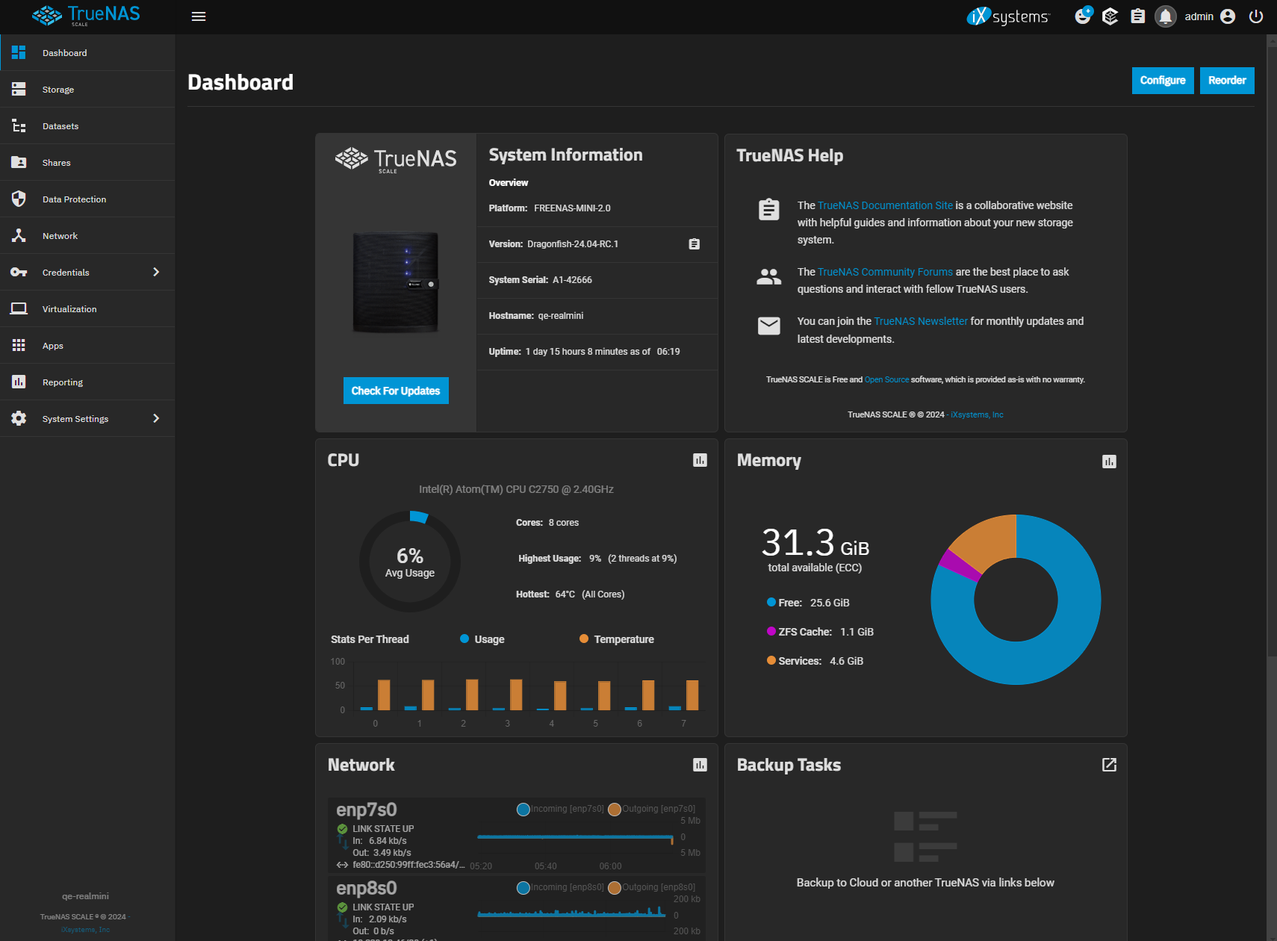
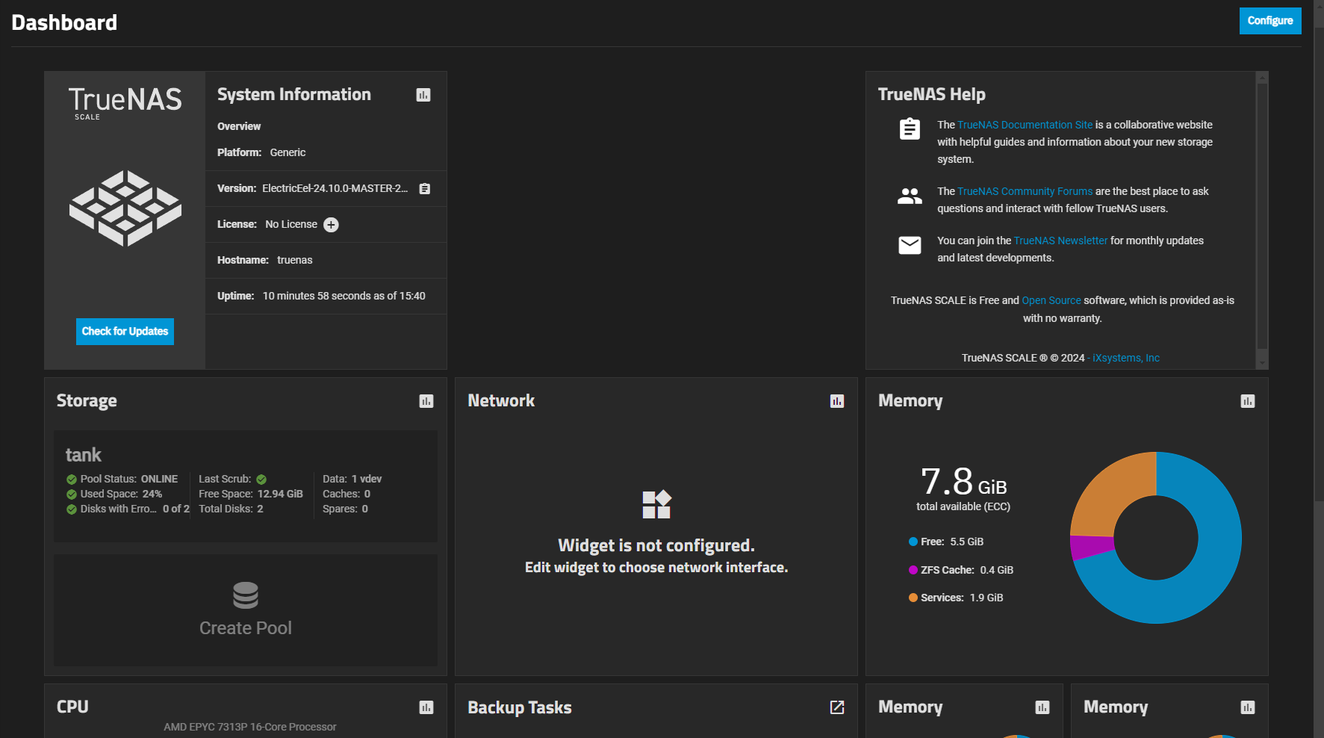
PD-1061 Create new Dashboard UI Ref Content and Screenshots
This commit updates the SCALEDashboard.md article with new UI reference content and images for the redesigned main dashboard.

diff --git a/content/SCALE/SCALEUIReference/SCALEDashboard.md b/content/SCALE/SCALEUIReference/SCALEDashboard.md
@@ -1,6 +1,6 @@
 ---
 title: Dashboard
-description: "Explains the main Dashboard information cards (widgets). Includes basic instructions on synchronizing the system server and SCALE time, and on customizing the Dashboard display."
+description: "Explains the main dashboard information cards (widgets) and provides basic information on synchronizing the system and SCALE server times, and on customizing the Dashboard display."
 weight: 4
 tags:
 - dashboard
@@ -12,141 +12,291 @@ keywords:
 - storage provisioning
 ---
 
-The **Dashboard** screen displays the first time you log into the SCALE web interface. 
-To display the **Dashboard** screen again click **Dashboard** on the left side panel. 
+The **Dashboard** is the first screen you see after logging into the web interface after installing SCALE.
+It displays a set of default widgets with system, help, storage, and network information but you can customize the display to suit your needs and preferences.
+**Dashboard** on the left side navigation panel returns to the main dashboard from any other screen in the UI.
 
 {{< trueimage src="/images/SCALE/Dashboard/DashboardMainScreenSCALE.png" alt="TrueNAS SCALE Dashboard" id="TrueNAS SCALE Dashboard" >}}
 
-The **Dashboard** displays basic information about your TrueNAS system in widgets or information cards that group information about your TrueNAS by type. For example, CPU information appears in the CPU widget. 
-These widgets display in a default layout that you can change.
+The **Configure** button at the top right of the **Dashboard** changes the screen to [configuration mode]() and allows you to turn widget displays on or off.
 
-Use the **Reorder** button to change the layout of the various widgets to suit your preference.
+## Dashboard Widgets
+The **Dashboard** widgets show information about the TrueNAS system basic settings, CPU and memory usage, network traffic and link status, storage, and backup tasks.
+Dashboard widgets are customizable. Options include changing which widgets layouts and the location on the screen, and adding custom or application widgets.
 
-Use **Configure** turn the widget display on or off. When on, the widget displays on the dashboard.
+Pool and network interface widgets vary based on storage and network configurations on the system.
 
-## Dashboard Configuration Panel
+Click on the <span class="iconify" data-icon="ic:baseline-assessment"></span> **Reports** icon to display the data report screen that corresponds to the widget category.
+For example, clicking the <span class="iconify" data-icon="ic:baseline-assessment"></span> assessment icon on the **CPU** widget opens the **Reporting > CPU** screen. 
 
-The **Dashboard Configuration** panel allows you to turn widget displays on or off. 
-There are three widget group types: **System Widgets**, **Storage Widgets** and **Network Widgets**. 
-Storage and network widgets vary based on the pools and network interfaces configured on your TrueNAS. 
+{{< expand "System Information Widget" "v" >}} 
+The **System Information** widget shows general information about the SCALE system.
+The **Updates Available** button opens the **System Settings > Update** screen.
 
-{{< trueimage src="/images/SCALE/Dashboard/DashboardConfigureScreenSCALE.png" alt="Dashboard Configure Panel" id="Dashboard Configure Panel" >}}
+{{< trueimage src="/images/SCALE/Dashboard/DashboardSystemInfoWidgetGeneric.png" alt="System Information Widget" id="System Information Widget" >}}
 
-Click on the slider to turn the information display on or off.
+If installed on a customer-provided server, the widget shows a generic TrueNAS image.
 
-**System Widgets** control the display of the **System Information**, **Help**, **CPU**, **Memory**, and **Backup** widgets.
+If installed on iXsystems-provided hardware, the widget shows a picture of the system.
+Click on the image to display the **View Enclosure** screen.
 
-**Storage Widgets** control the display of the **Storage** widget and individual widgets for each pool configured on your TrueNAS.
+{{< trueimage src="/images/SCALE/Dashboard/DashboardSystemInfoWidget.png" alt="System Information Widget for iX Systems" id="System Information Widget for iX Systems" >}}
 
-**Network Widgets** control the display of the **Network** widget and any individual interfaces configured on your TrueNAS.
-
-Use **Save** to retain any setting changes you make. Click on the **X** or on any part of the UI screen away from the **Dashboard Configure** panel to close it without saving changes.
-
-Click on the <span class="iconify" data-icon="ic:baseline-assessment"></span> assessment icon to display the data report screen that corresponds to that widget. For example, clicking the <span class="iconify" data-icon="ic:baseline-assessment"></span> assessment icon on the **CPU** widget opens the **Reporting > CPU** screen. 
-
-### System Information Widget
-
-The **System Information** widget displays general information about the SCALE system. It includes an option to synchronize the system server time with TrueNAS SCALE time if they get out of sync.   
-{{< expand "Click here for more information" "v" >}}
-If installed on customer-provided servers the widget displays a generic TrueNAS image. 
-If installed on iXsystems-provided hardware, a picture of the iXsystems hardware displays on the card above the **Check For Updates** button. Click on the image to display the **View Enclosure** screen.
-
-{{< trueimage src="/images/SCALE/Dashboard/DashboardSystemInfoWidgetGeneric.png" alt="System Information Widget - Generic Hardware" id="System Information Widget - Generic Hardware" >}}
-
-{{< trueimage src="/images/SCALE/Dashboard/DashboardSystemInfoWidgetSCALE.png" alt="System Information Widget for iXsystems Hardware" id="System Information Widget for iXsystems Hardware" >}}
-
-If TrueNAS SCALE time gets out of sync with the system server time, the **System Information** widget displays a message and provides a **Synchronize Time** link that executes a time-synchronization operation.
-
-{{< trueimage src="/images/SCALE/Dashboard/DashboardSytemInfoWidgetTimeSync.png" alt="System Information Widget with Time Sync" id="System Information Widget with Time Sync" >}}
+The **System Information** widget includes an option to synchronize the system server time with TrueNAS SCALE time if they get out of sync with each other.
+When out of sync, the widget displays a message and shows a **Synchronize Time** link that executes a time-synchronization operation.
 
 {{< truetable >}}
 | Field | Description |
 |-------|-------------|
-| **Platform** | Displays **Generic** for customer-provided server and hardware, and a TrueNAS logo displays to the left of the **System Information** fields. <br> Displays the TrueNAS model number for the iXsystems-provided server and hardware, and a picture of the server displays in the area to the left of the fields. |
-| **Version** | Displays the currently-installed software release of TrueNAS SCALE. Use the clipboard <span class="material-icons-outlined">assignment</span> icon to display the full name of the release installed and to copy the version to the clipboard. |
-| **Hostname** | Displays the host name for the TrueNAS system. Configure the host name on the **Network > Global Configuration** screen. |
-| **Uptime** | Displays the number of consecutive days and the number of hours and minutes the system has run since the last reboot. |
-| **Check For Updates** | Click to display the **System Update** screen. You can also display the **System Update** screen by selecting **System Settings > Update** on the main menu panel on the left side of the screen. | 
-| **Synchronize Time** <span class="material-icons">loop</span> | Executes a time-synchronization operation to bring the system server and TrueNAS SCALE time into alignment when time gets out of sync. This operation is not designed to correct time that is weeks out of sync, and only displays when the system and SCALE time are out of sync. |
+| **Platform** | Shows as **Generic** for customer-provided server and hardware and displays the TrueNAS SCALE logo to the left of the **System Information** fields. The TrueNAS model number for the iXsystems-provided server and hardware and a picture of the server shows in the area to the left of the fields. |
+| **Version** | Shows the currently-installed software release of TrueNAS SCALE. Use the clipboard <span class="material-icons-outlined">assignment</span> icon to display the full name of the release installed and to copy the version to the clipboard. |
+| **Hostname** | Shows the host name for the TrueNAS system. Configure the host name on the **Network > Global Configuration** screen. |
+| **Uptime** | Shows the number of consecutive days, and hours and minutes the system of runtime since the last reboot. |
+| **Updates Available**<br>**Check for Updates** | Opens the **System Update** screen, or go to **System > Update** on the left-side main menu panel to open the **System Update** screen. **Updates Available** shows when systems updates are available for the current system release train. | 
+| **Synchronize Time** <span class="material-icons">loop</span> | Executes a time-synchronization operation to bring the system server and TrueNAS SCALE time into alignment when these times get out of sync. Only shows when the system and SCALE time are out of sync. This operation is not designed to correct time that is weeks out of sync. |
 {{< /truetable >}}
 {{< /expand >}}
 
-### CPU Widget
+{{< expand "HA System Information Widgets" "v" >}}
+{{< enterprise >}}
+The two HA **Active** and **Standby** controller **System Information** widgets show only for systems licensed for HA.
 
-The **CPU** widget displays information on the system CPU. 
-{{< expand "Click here for more information" "v" >}}
-The widget includes an **Avg Usage** dynamic spinner that displays the percentage of usage at that moment on the CPU. 
-The **Stats Per Thread** bar graph displays **Usage** in blue and **Temperature** in orange with the x axis with the number threads and the y axis the percent usage in 20 increment counts. 
-It also details the number **Cores** as ***x* cores (*y* threads)**, the **Highest Usage** as ***x*% (*y* threads at *x*%)**, and the **Hottest** temperature as ***x*&deg;C (*y* cores at *x*&deg;C)**.
+Each HA active or standby **System Information** widget shows the same information found on the non-HA **System Information** widget but also shows the system serial number, and system license number and type.
+The standby controller widget shows the **Initiate Failover** button.
+The active controller widget shows the **Check for Updates** button.
 
-{{< trueimage src="/images/SCALE/Dashboard/DashboardCPUWidgetSCALE.png" alt="CPU Widget" id="CPU Widget" >}}
+{{< trueimage src="/images/SCALE/Dashboard/DashboardHASystemInformationWidgets.png" alt="HA System Information Widgets" id="HA System Information Widgets" >}}
+
+{{< /enterprise >}}
+{{< /expand >}}
+
+{{< expand "CPU Widget" "v" >}}
+The **CPU** widget shows dynamic gauges and graphs with CPU usage and temperature readings for system cores updated in realtime.
+
+{{< trueimage src="/images/SCALE/Dashboard/DashboardCPUWidget.png" alt="CPU Widget" id="CPU Widget" >}}
+
+The widget shows gauges and graphs showing CPU statistics:
+* **CPU Usage** gauge that shows the average percentage of usage for the CPU cores.
+* **CPU Recent Usage** gauge that shows recent CPU usage updated in realtime, and includes the CPU model number, number of cores and physical cores.
+* **CPU Usage per CORE** bar graph that shows CPU usage per core.
+* **CPU Temperature per Core** bar graph that shows CPU **Usage** in blue and **Temperature** in orange.
+{{< /expand >}}
+
+{{< expand "Memory Widget" "v" >}}
+The **Memory** widget shows current system memory consumption information.
+
+{{< trueimage src="/images/SCALE/Dashboard/DashboardMemoryWidget.png" alt="Memory Widget" id="Memory Widget" >}}
+
+The widget includes a gauge showing GiB **Free** in blue, **ZFS Cache** in fuchsia pink, and **Services** in orange.
+
+You can configure the memory widget as a one large (100%) or one long (50%) plus two quarter size (25%) widget layouts.
+{{< /expand >}}
+
+{{< expand "Network and Interface Widgets" "v" >}}
+The **Network** widget shows the status the configured primary system interface(s), link status, network I/O traffic, primary interface IP address, and media type and subtype if known.
+It includes a dynamic graph showing the time of recorded traffic and the incoming (blue) and outgoing (orange) traffic in kbs.
+
+{{< trueimage src="/images/SCALE/Dashboard/DashboardNetworkWidget.png" alt="Network Widget" id="Network Widget" >}}
+
+You can configure an individual network interface (NIC) widgets in addition to the **Network** widget.
+An **Interface** widget shows traffic, link status, interface media type and subtype, and any VLANS and the IP Address and port number.
+
+{{< trueimage src="/images/SCALE/Dashboard/DashboardInterfaceWidget.png" alt="Interface Widget" id="Interface Widget" >}}
 
 {{< /expand >}}
 
-### Memory Widget
-
-The **Memory** widget displays information on the system memory. 
-{{< expand "Click here for more information" "v" >}}
-The widget displays a spinner showing the GiB **Free** in blue, **ZFS Cache** in fuchsia pink, and **Services** in orange. 
-
-{{< trueimage src="/images/SCALE/Dashboard/DashboardMemoryWidgetSCALE.png" alt="Memory Widget" id="Memory Widget" >}}
-
-{{< /expand >}}
-
-### Network and Interface Widgets
-
-The **Network** widget displays network the status of the system interfaces, link status, and the system IP address and port number.
-Clicking <i class="material-icons" aria-hidden="true" title="Open Network Reporting Screen">assessment</i> opens the **Reporting** screen and shows more network statistics.
-
-{{< expand "Click here for more information" "v" >}}
-The **Network** widget displays a dynamic graph of incoming (blue) and outgoing (orange) traffic over the primary system interface.
-
-{{< trueimage src="/images/SCALE/Dashboard/DashboardNetworkWidgetSCALE.png" alt="Network Widget" id="Network Widget" >}}
-
-{{< /expand >}}
-The **Interface** widgets display traffic stats, link status, and provide more information on that interface media type and subtype, any VLANS and the IP Address and port number.
-{{< expand "Multiple Interfaces" "v" >}}
-When more than one interface is configured on your TrueNAS, use the **Dashboard Configuration** panel to add an interface widget for each interface.
-The **Interface** card displays the information for that interface.
-
-{{< trueimage src="/images/SCALE/Dashboard/DashboardInterfaceWidgetSCALE.png" alt="Interface Widget" id="Interface Widget" >}}
-
-Click on the **>** to display the **Addresses** widget for that interface. 
-
-{{< trueimage src="/images/SCALE/Dashboard/DashboardInterfaceAddressesWidgetSCALE.png" alt="Interface Addresses Widget" id="Interface Addresses Widget" >}}
-
-Click the <span class="iconify" data-icon="material-symbols:edit-outline"></span> edit icon to open the **Network** > **Edit Interface** screen.
-{{< /expand >}}
-
-### Storage and Pool Widgets
-
-The **Storage** widget displays information on the root and other storage pools configured on your system.
-{{< expand "Click here for more information" "v" >}}
-The **Storage** widget displays the root pool status, path, and the number of VDEVs configured. It also displays the percentage of used space, free space and any caches.
-It reports on the number disks with errors, the total number of disks the root pool uses, and if a spare exists.
+{{< expand "Storage and Pool Widgets" "v" >}}
+The **Storage** widget shows information on the primary (root) pool status, path, and number of VDEVs configured in that pool.
+It also shows the percentage of used and free space, and any caches.
+It reports the number disks with errors, the total number of disks in the pool, and if a spare exists.
 
 {{< trueimage src="/images/SCALE/Dashboard/DashboardStorageWidgetSCALE.png" alt="Storage Widget" id="Storage Widget" >}}
 
-The individual pool information displayed in this widget includes the same information as the root pool.
+You can configure individual pool widgets that show the same information as the root pool in the **Storage** widget.
+
+{{< trueimage src="/images/SCALE/Dashboard/DashboardPoolWidget.png" alt="Pool Widget" id="Pool Widget" >}}
+
 {{< /expand >}}
 
-### Backup Tasks Widget
-
-When no backup tasks exist, this shows links to quickly set up an automated data backup schedule.
+{{< expand "Backup Tasks Widget" "v" >}}
+The **Backup Task** widget shows links to quickly set up an automated data backup schedule if a backup task does not exist.
 Click <i class="material-icons" aria-hidden="true" title="Open Data Protection Screen">open_in_new</i> to open the **Data Protection** screen with all options for checking or backing up stored data.
 
-{{< trueimage src="/images/SCALE/Dashboard/BackupTasksEmpty.png" alt="Empty Backup Tasks Widget" id="Empty Backup Tasks Widget" >}}
+{{< trueimage src="/images/SCALE/Dashboard/DashboardBackupTasksEmpty.png" alt="Empty Backup Tasks Widget" id="Empty Backup Tasks Widget" >}}
 
-When a backup task exists, the widget shows details about the various backup tasks that are configured on the system.
+When a backup task exists, the widget shows details about the various backup tasks configured on the system.
 
-{{< trueimage src="/images/SCALE/Dashboard/BackupTasksExample.png" alt="Backup Tasks Widget with Cloud Sync Example" id="Backup Tasks Widget with Cloud Sync Example" >}}
+{{< trueimage src="/images/SCALE/Dashboard/DashboardBackupTasks.png" alt="Backup Tasks Widget with Cloud Sync Example" id="Backup Tasks Widget with Cloud Sync Example" >}}
 
-Details provided include how many tasks of each type of backup exist, if they send or receive data, how many times tasks have failed and succeeded, and weekly success counters.
+The widget shows the number of tasks for each type of backup, direction for data (sent or received), the number of times tasks failed and succeeded, and weekly success counters.
+{{< /expand >}}
 
-### Help Widget
+{{< expand "Help Widget" "v" >}}
+The **TrueNAS Help** widget shows links to various TrueNAS websites.
 
-The **TrueNAS Help** widget displays links to the [TrueNAS Documentation Site](https://www.truenas.com/docs/) and [TrueNAS Community Forums](https://forums.truenas.com/). It also includes a link where users can sign up for the [TrueNAS Newsletter](https://www.truenas.com/newsletter/), and a link to the Github web page for [TrueNAS Open Source software](https://github.com/truenas/). There is also a link for the [iXsystems home page](https://www.ixsystems.com/).
+{{< trueimage src="/images/SCALE/Dashboard/DashboardHelpWidget.png" alt="Help Widget" id="Help Widget" >}}
 
-{{< trueimage src="/images/SCALE/Dashboard/DashboardHelpWidgetSCALE.png" alt="Help Widget" id="Help Widget" >}}
+Links included are:
+
+* [TrueNAS Documentation Site](https://www.truenas.com/docs/)
+* [TrueNAS Community Forums](https://forums.truenas.com/)
+* [TrueNAS Open Source software](https://github.com/truenas/)
+* [iXsystems home page](https://www.ixsystems.com/) where users can access the GitHub web page.
+* [TrueNAS Newsletter](https://www.truenas.com/newsletter/) where users can sign up for the newsletter.
 
 Click on each link to open it in a new browser tab.
+{{< /expand >}}
+
+{{< expand "App Widget" "v" >}}
+The **App** widget shows the app name, version, state (Deploying, Active, Stopped, etc.), release status, CPU usage in percentage, memory usage in MiB, network I/O traffic, and disk I/O traffic.
+The TrueNAS SCALE logo shows in the the top left corner of the widget if a logo image for the app is unavailable.
+
+{{< trueimage src="/images/SCALE/Dashboard/DashboardAppWidget.png" alt="App Widget" id="App Widget" >}}
+
+The widget includes three icon function buttons at the top left:
+* <span class="iconify" data-icon="mdi:web"></span> **Web Portal** to access the web portal for the app.
+* <span class="iconify" data-icon="mdi:restart"></span> **Restart** to restart the app.
+* <span class="iconify" data-icon="mdi:cog"></span> **App Details** to show the app settings.
+
+{{< /expand >}}
+<!-- Commenting out until this widget is completed by devs
+{{< expand "Custom Widget" "v" >}}
+The **Custom** widget shows l
+
+{{< trueimage src="/images/SCALE/Dashboard/ .png" alt="Custom Widget" id="Custom Widget" >}}
+
+{{< /expand >}} -->
+
+## Dashboard in Configuration Mode
+In configuration mode, dashboard widgets are enclosed in dotted-line boxes to show the *grouping area* for each widget.
+
+**Add** opens a blank **Widget Editor** screen.
+
+**Save** saves all changes made to the dashboard.
+
+**Cancel** closes configuration mode without saving any changes. Changes made and saved on the [**Widget Editor**](#widget-editor) screen are discarded if you click **Cancel**.
+
+{{< trueimage src="/images/SCALE/Dashboard/DashboardInConfigMode.png" alt="Dashboard Configuration Mode" id="Dashboard Configuration Mode" >}}
+
+**Add** opens a blank **Widget Editor**.
+
+**Save** saves any changes and exits configuration mode.
+**Cancel** exists configuration mode without saving changes.
+
+Pressing <kbd>Esc</kbd> (escape) also exits configuration mode and discards any changes made to widget group area configurations or placements.
+
+### Widget Group Areas
+Widget groups (areas) can use one of five layouts that consist of other widgets of different sizes and configurations.
+Layouts options show on the [**Widget Editor**](#widget-editor) screen.
+
+Each grouping area shows three function icons:
+
+* <span class="iconify" data-icon="mdi:drag-horizontal"></span> Drag handle that allows you to grab and move the widget to a new location on the screen.
+  Dragging a widget to a new location shifts the other widgets one position to the left or right depending on where the dragged widget is placed.
+
+* <span class="iconify" data-icon="ic:round-edit"></span> **Edit** opens the **Widget Editor** populated with the settings for the existing widget.
+ 
+* <span class="iconify" data-icon="ic:baseline-delete"></span> **Delete** removes the widget from the **Dashboard**.
+
+Pressing <kbd>Tab</kbd> allows selecting the next button or function icon on the screen and across all widget groups.
+
+## Widget Editor
+Access to the **Widget Editor** screen is available when the **Dashboard** screen is in configuration mode.
+The edit icon for any widget group opens the **Widget Editor** populated with the current settings for that widget group.
+**Add** opens the **Widget Editor** with no settings.
+
+{{< trueimage src="/images/SCALE/Dashboard/WidgetEditorAddNew.png" alt="Widget Editor for New Widget" id="Widget Editor for New Widget" >}}
+
+{{< trueimage src="/images/SCALE/Dashboard/WidgetEditorExistingWidget.png" alt="Widget Editor for Existing Widget" id="Widget Editor for Existing Widget" >}}
+
+Select an individual widget in a layout with multiple widgets to change the category and type and customize the display of the widget group.
+### Widget Editor Settings
+{{< truetable>}}
+| Setting | Description |
+|---------|-------------|
+| **Layouts** | Click on the layout image to add one to four widgets in the group. Not all widget categories support all layouts. |
+| **Widget Category** | Select the information category from the dropdown list of options:<br><li>**Empty** - Default selection for a new widget. Use to fill a grouping of multiple widgets where only two are defined and the others are not.<br><li>**Network** - Use to to set up a network widget.<br><li>**Storage** - Use to set up a storage or single pool widget.<br><li>**Help** - Use to include the widget with links to SCALE resources.<br><li>**Memory** - Use to set up a memory-usage widget.<br><li>**Backup Tasks** - Use to set up a widget showing either configured data protection tasks or links to locations to configure tasks.<br><li>**CPU** - Use to set up a CPU usage widget.<br><li>**System Information** - Use to add one of four system information widget types. <br><li>**Custom** - Use to set up a text-only widget with whatever text-based information you want to include on the **Dashboard**.<br></li> The **Widget Type** field shows after selecting the category. |
+| **Widget Type** | Select the type of information to show in the selected widget. Options change based on the selected **Widget Category**. See [Widget Type Options by Category](#widget-type-options-by-category) for information on the options by the category and type selected. |
+{{< /truetable >}}
+
+### Widget Type Options by Category
+
+{{< expand "Widget Type Options for Network" "v" >}}
+There are four types available when **Widget Category** is set to **Network**.
+Selecting **Network**, **IPv4 Address** or **IPv6 Address** as the type adds the **Interfaces** field to the screen.
+
+**Hostname** can use a full, half, or quarter size widget. It does not add additional fields.
+
+**IPv4 Address** and **IPv6 Address** can use a full, half, or quarter size widget. Shows the **Interface** field.
+
+**Network** can use a full or half size widget with network information for a primary or other interface configured on the system. Shows the **Interface** field.
+
+Select the interface to show in the widget from the **Interface** dropdown field.
+{{< /expand >}}
+
+{{< expand "Widget Type Options for Storage" "v" >}}
+There are two widget types available when **Widget Category** is set to **Storage**: **Storage** and **Pool**.
+The layout for the widget must be full size.
+
+Selecting either **Storage** or **Pool** as the type adds the **Pool** field to the screen.
+{{< /expand >}}
+
+{{< expand "Widget Type Options for Help" "v" >}}
+Only **Help** is the available widget type when **Widget Category** is set to **Help**.
+
+The **Help** widget can use a full, half, or quarter size widget, but using the half or quarter size adds scrollbars to the widget to provide access to the full content in this widget category.
+For best viewing and access to the content we recommend using the full size for the **Help** widget.
+{{< /expand >}}
+
+{{< expand "Widget Type Options for Memory" "v" >}}
+Only **Memory** is the available widget type when **Widget Category** is set to **Memory**.
+
+The **Memory** widget can use a full, half, or quarter size widget, and can be included in a widget group with other widget categories and types.
+{{< /expand >}}
+
+{{< expand "Widget Type Options for Backup Tasks" "v" >}}
+Only **Backup Tasks** is the available widget type when **Widget Category** is set to **Backup Tasks**.
+
+The **Backup Task** widget can only use a full size widget.
+{{< /expand >}}
+
+{{< expand "Widget Type Options for CPU" "v" >}}
+Only **CPU** is the available widget type when **Widget Category** is set to **CPU**.
+
+The **CPU** widget can only use a full size widget.
+{{< /expand >}}
+
+{{< expand "Widget Type Options for System Information" "v" >}}
+There are four widget types available when **Widget Category** is set to **System Information**: **System Information Active Node**, **OS Version**, **System Uptime**, and **System Image**.
+
+**System Information Active Node** shows system information for a single controller system in a full size widget.
+<!-- Commenting out until I can verify this on a system
+{{< enterprise >}}
+If the system is an HA system with an Enterprise license, shows the active controller widget in a full size widget.
+If an HA system with dual controllers, the **HA** option displays as a **Widget Category**.
+{{< /enterprise >}}
+-->
+
+**OS Version**, **System Uptime**, or **System Image** can use a full, half, or quarter size widget.
+These can be included in a widget group with other widget categories and types to create a mixed information widget.
+
+{{< /expand >}}
+<!-- Commenting out until apps is working in EE so I can verify the options for this widget
+{{< expand "Widget Type Options for Apps" "v" >}}
+Only **Application** is the available widget type when **Widget Category** is set to **Apps**.
+The widget includes the app name and image, app status, and information on the app portal.
+
+You can configure extra widgets for app CPU and/or memory usage, and network traffic for the selected app.
+
+If you uninstall (delete) the app shown in the app widget, it is not automatically removed from the dashboard, rather it shows an error message that directs you to configure the widget for a new app.
+Either reconfigure or delete the app widget to remove the error message.
+{{< /expand >}} -->
+
+{{< expand "Widget Type Options for Custom" "v" >}}
+Only **Arbitrary Text** is the available widget type when **Widget Category** is set to **Custom**.
+
+There are three additional fields to enter text strings in a full, half, or quarter-size widget.
+Enter text in **Widget Title**, **Widget Text**, and **Widget Subtext** (if desired) that does not exceed the maximum character count.
+The maximum number of character for the **Custom** widget is 200 upper and lower case alpha-numeric or special characters.
+Spaces between characters count as characters.
+{{< /expand >}}
